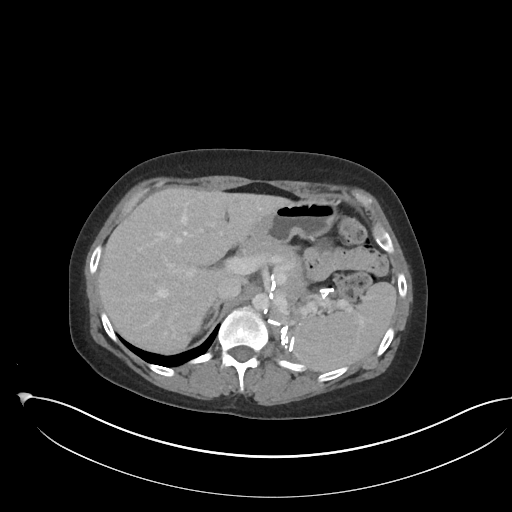
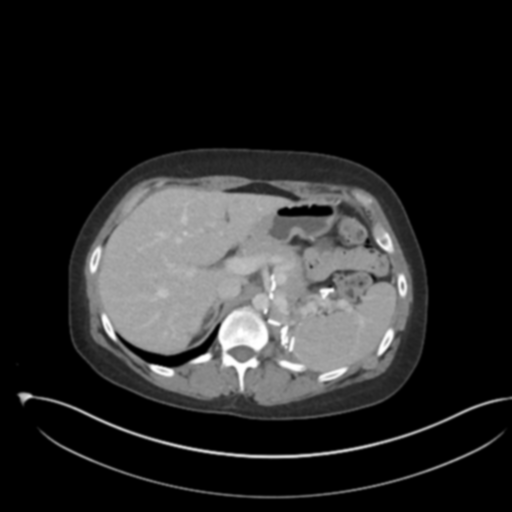
Added smoothing

diff --git a/code/classification.py b/code/classification.py
@@ -55,6 +55,7 @@ def build_sets(info):
     clear_directory_files(validation_non_abdominal_dir)
 
     processed_image_dir = '../processed_images'
+    smoothed_image_dir = '../smoothed_images'
 
     abdominal_images = []
     non_abdominal_images = []
@@ -74,21 +75,21 @@ def build_sets(info):
     random_non_abdominal_images = random.sample(non_abdominal_images, TRAINING_SIZE + VALIDATION_SIZE)
 
     for index, image in enumerate(random_abdominal_images):
-        src = os.path.join(processed_image_dir, image)
-
         if index < TRAINING_SIZE:
+            src = os.path.join(processed_image_dir, image)
             dest = os.path.join(training_abdominal_dir, image)
         else:
+            src = os.path.join(smoothed_image_dir, image)
             dest = os.path.join(validation_abdominal_dir, image)
 
         copyfile(src, dest)
 
     for index, image in enumerate(random_non_abdominal_images):
-        src = os.path.join(processed_image_dir, image)
-
         if index < TRAINING_SIZE:
+            src = os.path.join(processed_image_dir, image)
             dest = os.path.join(training_non_abdominal_dir, image)
         else:
+            src = os.path.join(smoothed_image_dir, image)
             dest = os.path.join(validation_non_abdominal_dir, image)
 
         copyfile(src, dest)

diff --git a/code/preprocessing.py b/code/preprocessing.py
@@ -8,6 +8,7 @@ from shutil import copyfile, rmtree
 download_image_dir = '../Images_png'
 selected_image_dir = '../selected_images'
 processed_image_dir = '../processed_images'
+smoothed_image_dir = '../smoothed_images'
 
 
 def clear_image_dir(folder):
@@ -51,6 +52,7 @@ def convert_images():
     for filename in os.listdir(selected_image_dir):
         selected_file_path = os.path.join(selected_image_dir, filename)
         processed_file_path = os.path.join(processed_image_dir, filename)
+        smoothed_file_path = os.path.join(smoothed_image_dir, filename)
 
         # images read in as 16 bit
         img = cv2.imread(selected_file_path, cv2.IMREAD_UNCHANGED)
@@ -68,6 +70,10 @@ def convert_images():
                 img[x, y] = min(255, max(0, (img[x, y] - window_min) / (window_max - window_min) * 255))
 
         cv2.imwrite(processed_file_path, img)
+
+        smoothed_img = cv2.GaussianBlur(img, (5, 5), 0)
+
+        cv2.imwrite(smoothed_file_path, smoothed_img)
 
 
 if __name__ == "__main__":
